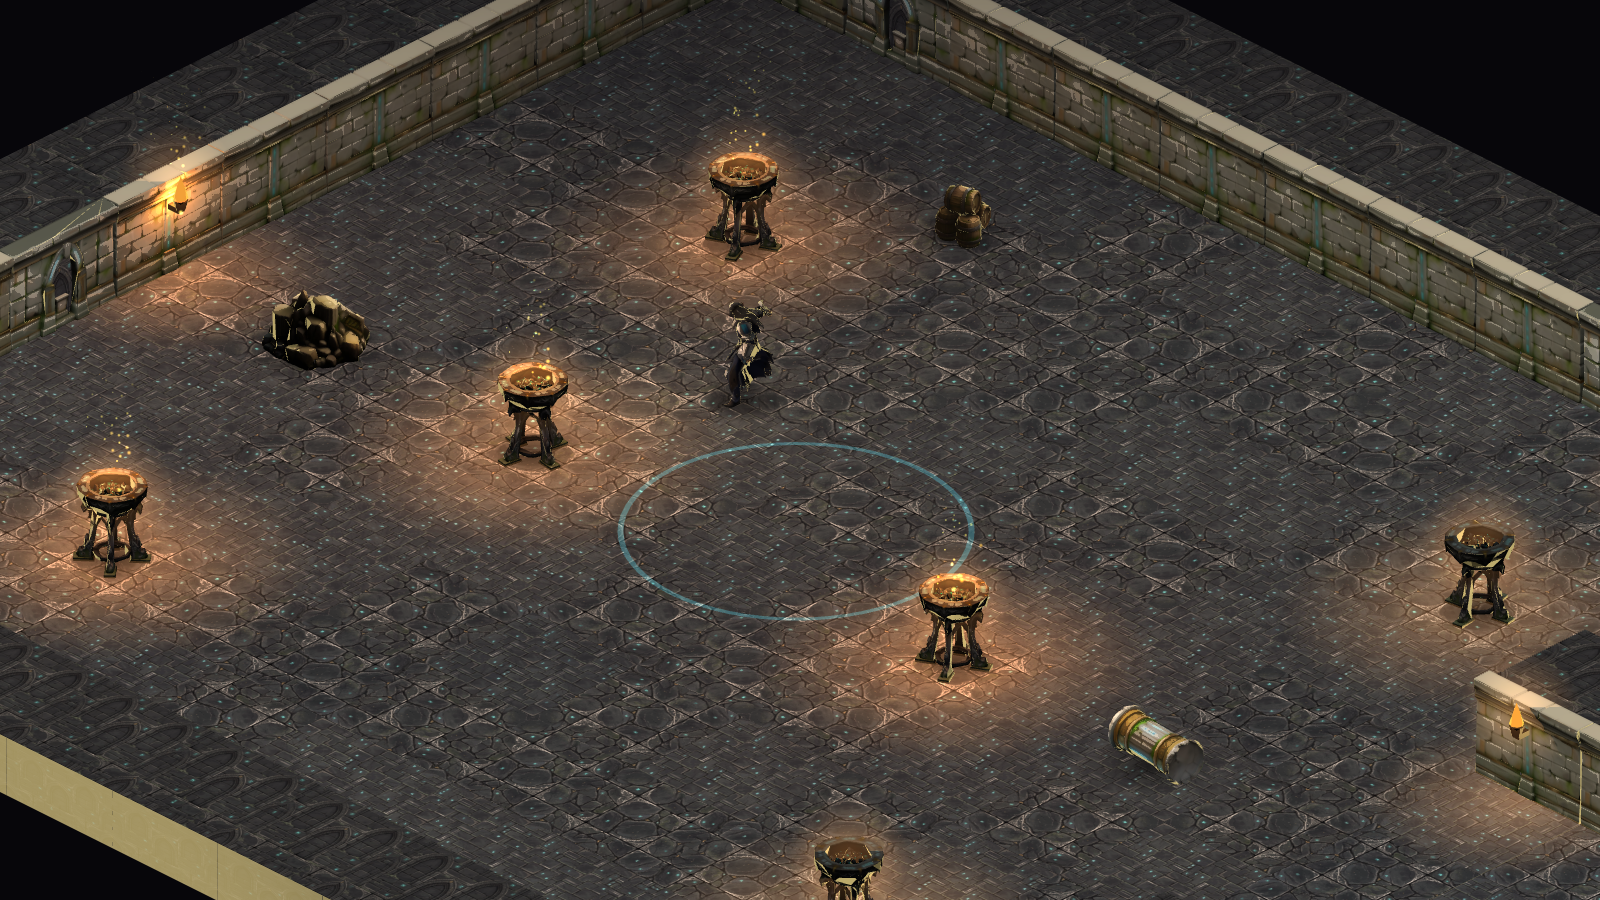
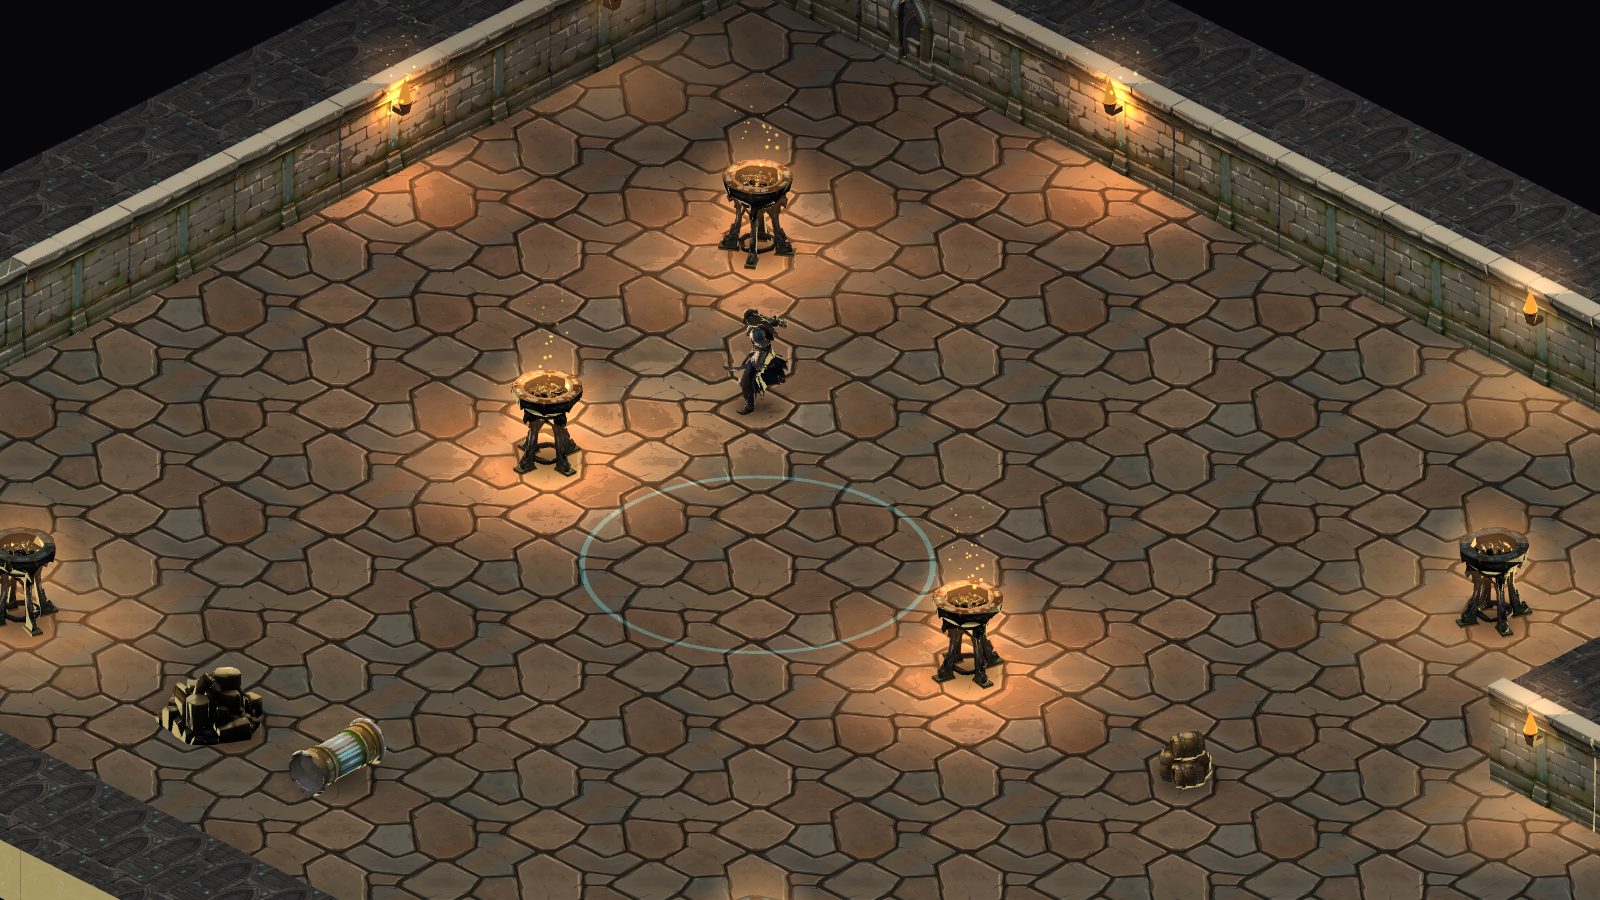
New painted flagstone floor mapped continuously in world space (no per-tile repeat or seams); toned for mood
Claude-Session: https://claude.ai/code/session_01AZqGtGy81B4DUW4Xvq9Knm

diff --git a/src/world/DungeonInstancer.ts b/src/world/DungeonInstancer.ts
@@ -77,13 +77,18 @@ export class DungeonInstancer {
     };
     const lit = (m: THREE.MeshLambertMaterial, map: THREE.Texture, k: number) => { m.emissiveMap = map; m.emissive = new THREE.Color(1, 1, 1); m.emissiveIntensity = k; return m; };
     const c = new THREE.Color();
-    const floorGeo = own(new THREE.BoxGeometry(TILE, 0.4, TILE).translate(0, -0.2, 0));
-    const floorVariants = ['floor_a', 'floor_b'].map((n, v) => {
-      const map = tex(n);
-      const mat = own(lit(createToonMaterial({ color: 0xffffff, map, veins: 1, rim: 0.4, band: 0.2 }), map, 0.9));
-      const tiles = floorTiles.filter((idx) => ((hash(idx % GRID, (idx / GRID) | 0) * 7) | 0) % 2 === v);
-      return { mat, tiles };
+    // One continuous flagstone texture mapped in world space: the image spans 2x2 tiles, so each tile uses one quadrant
+    // chosen by its grid parity and neighbouring tiles join with no seam (no per-tile rotation, which would break it).
+    const floorMap = tex('floor_c');
+    const floorMat = own(lit(createToonMaterial({ color: 0xffffff, map: floorMap, veins: 0.6, rim: 0.4, band: 0.2 }), floorMap, 0.3));
+    const floorGeos = [0, 1, 2, 3].map((q) => {
+      const g = new THREE.BoxGeometry(TILE, 0.4, TILE).translate(0, -0.2, 0);
+      const pos = g.attributes.position as THREE.BufferAttribute, uv = g.attributes.uv as THREE.BufferAttribute;
+      const px = q & 1, pz = q >> 1;
+      for (let i = 0; i < uv.count; i++) uv.setXY(i, (px + pos.getX(i) / TILE + 0.5) / 2, 1 - (pz + pos.getZ(i) / TILE + 0.5) / 2);
+      return own(g);
     });
+    const floorVariants = floorGeos.map((geo, q) => ({ geo, tiles: floorTiles.filter((idx) => ((idx % GRID) & 1) + 2 * (((idx / GRID) | 0) & 1) === q) }));
     // per-room floor tint: warm start hall, cool crypts, teal-leaning boss hall; plus worn / cracked tiles
     const roomTint = (x: number, y: number): [number, number, number] => {
       const r = d.rooms.find((q) => x >= q.x && x < q.x + q.w && y >= q.y && y < q.y + q.h);
@@ -92,13 +97,13 @@ export class DungeonInstancer {
       if (r.kind === 'boss') return [0.92, 1.0, 1.1];
       return r.decor.some((q) => q.id === 'sarcophagus') ? [0.9, 1.02, 1.1] : [1.04, 1.0, 0.94];
     };
-    for (const { mat, tiles } of floorVariants) {
-      const mesh = add(new THREE.InstancedMesh(floorGeo, mat, Math.max(1, tiles.length)));
+    for (const { geo, tiles } of floorVariants) {
+      const mesh = add(new THREE.InstancedMesh(geo, floorMat, Math.max(1, tiles.length)));
       mesh.count = tiles.length;
       tiles.forEach((idx, n) => {
         const x = idx % GRID, y = (idx / GRID) | 0, h = hash(x, y), w = hash(x * 1.7 + 3, y * 2.3 + 1);
-        put(mesh, n, tileToWorld(x), 0, tileToWorld(y), Math.floor(hash(y, x) * 4) * Math.PI / 2);
-        const k = (w < 0.1 ? 0.7 : 1.0 + h * 0.3) * 1.12, [tr, tg, tb] = roomTint(x, y);
+        put(mesh, n, tileToWorld(x), 0, tileToWorld(y));
+        const k = (w < 0.1 ? 0.88 : 1.0 + h * 0.1) * 0.72, [tr, tg, tb] = roomTint(x, y);
         mesh.setColorAt(n, c.setRGB(k * tr, k * tg, k * tb));
       });
     }
